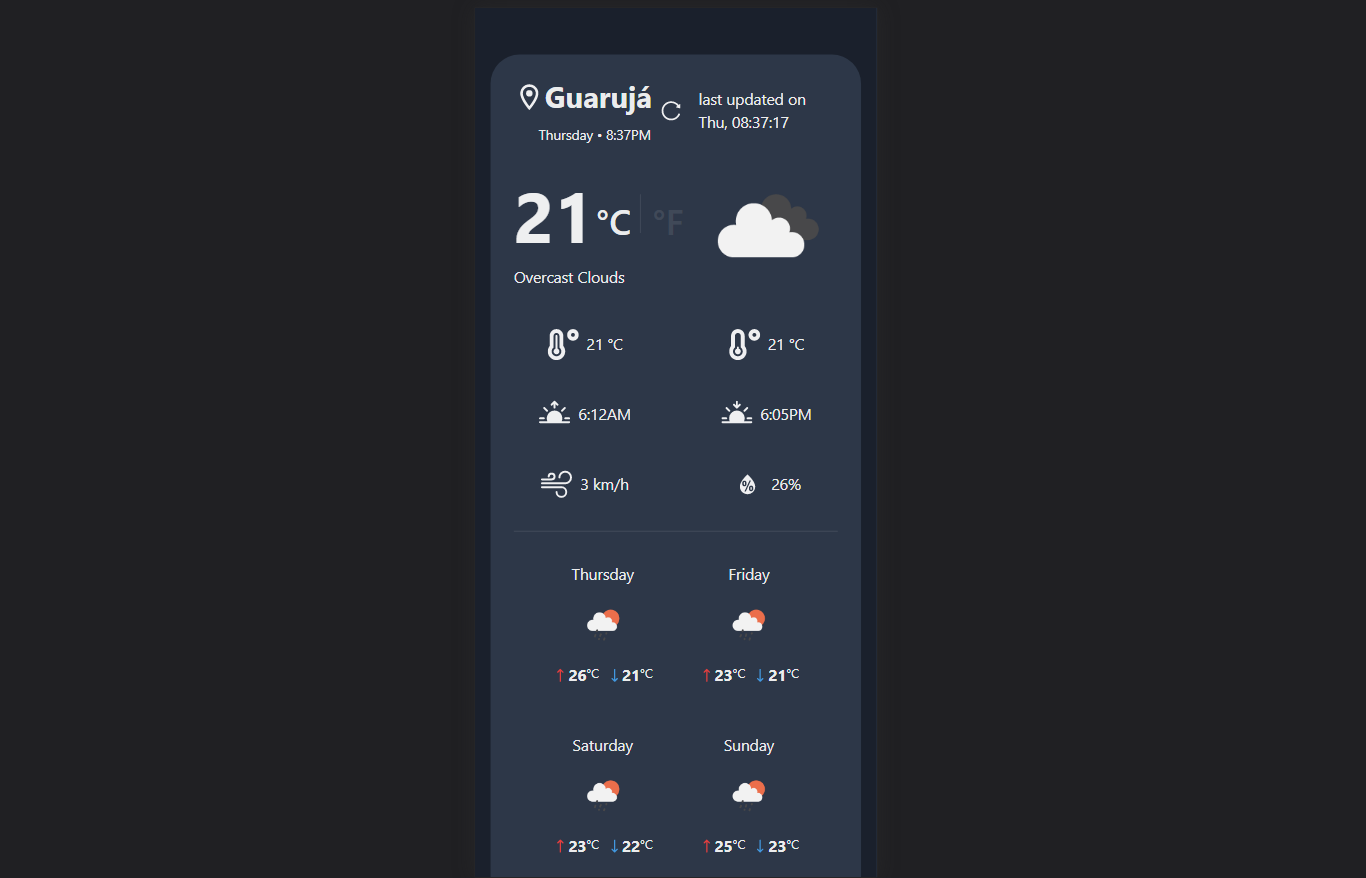
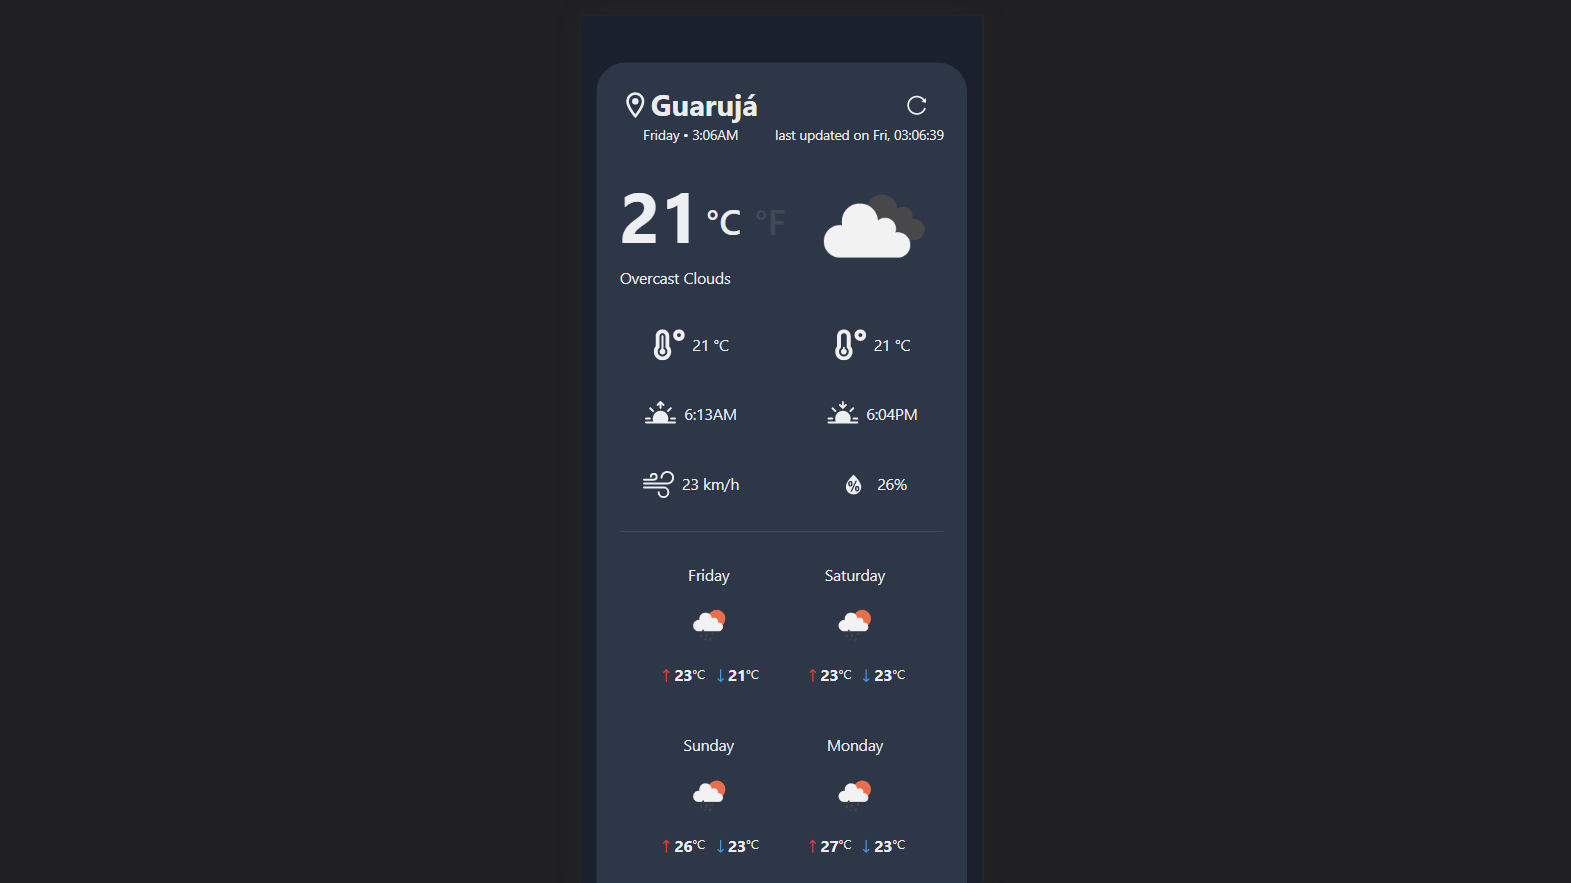
styled: responsive header

diff --git a/src/components/CurrentWeather.tsx b/src/components/CurrentWeather.tsx
@@ -1,8 +1,6 @@
 import {
   Flex,
-  Heading,
   HStack,
-  Icon,
   Image,
   Text,
   VStack,
@@ -10,12 +8,12 @@ import {
   Skeleton,
 } from "@chakra-ui/react";
 import { useCurrentWeather } from "../hooks";
-import { MdOutlineLocationOn } from "react-icons/md";
+
 import { BsWind } from "react-icons/bs";
 import { WiHumidity } from "react-icons/wi";
 
 import { formatDate, getImgUrl, getWindSpeed, msToDate } from "../utils";
-import { format } from "date-fns";
+
 import { IconAndLabel } from "./IconAndLabel";
 import { BsFillSunriseFill, BsFillSunsetFill } from "react-icons/bs";
 import { FaTemperatureHigh, FaTemperatureLow } from "react-icons/fa";
@@ -23,7 +21,8 @@ import { useAtom } from "jotai";
 import { locationAtom, Units, unitsAtom } from "../atoms";
 import { GenericError, Loading } from "./Feedback";
 import { CelsiusOrFahrenheit } from "./CelsiusOrFahrenheit";
-import { RefetchButton } from "./RefetchButton";
+
+import { Header } from "./Header";
 
 export function CurrentWeather() {
   const [location] = useAtom(locationAtom);
@@ -49,20 +48,7 @@ export function CurrentWeather() {
   return (
     <Skeleton w="full" isLoaded={data && !isLoading}>
       <VStack alignItems="start" w="full">
-        <HStack justifyContent="space-between" w="full">
-          <VStack>
-            <Flex align="center">
-              <Icon as={MdOutlineLocationOn} boxSize="8" />
-              <Heading>{data.name}</Heading>
-            </Flex>
-
-            <Text paddingLeft="6" fontSize="sm">
-              {format(new Date(), "eeee '•' h':'mma ")}{" "}
-            </Text>
-          </VStack>
-          <RefetchButton />
-        </HStack>
-
+        <Header city={data.name} />
         <HStack
           w="full"
           justifyContent={["space-between", "center"]}

diff --git a/src/components/Header.tsx b/src/components/Header.tsx
@@ -1,0 +1,26 @@
+import { Flex, Heading, HStack, Icon, Text } from "@chakra-ui/react";
+import { format } from "date-fns";
+import { RefetchButton } from "./RefetchButton";
+import { MdOutlineLocationOn } from "react-icons/md";
+
+type Props = {
+  city: string;
+};
+
+export function Header({ city }: Props) {
+  return (
+    <HStack justifyContent="space-between" w="full">
+      <Flex flexDir="column">
+        <Flex align="center">
+          <Icon as={MdOutlineLocationOn} boxSize="8" />
+          <Heading>{city}</Heading>
+        </Flex>
+
+        <Text paddingLeft="6" fontSize="sm">
+          {format(new Date(), "eeee '•' h':'mma ")}{" "}
+        </Text>
+      </Flex>
+      <RefetchButton />
+    </HStack>
+  );
+}

diff --git a/src/components/RefetchButton.tsx b/src/components/RefetchButton.tsx
@@ -43,7 +43,7 @@ export function RefetchButton() {
   }, [isFetching]);
 
   return (
-    <Flex flexDir="row" align="center">
+    <Flex flexDir={["column", "row"]} align={["end", "center"]}>
       <IconButton
         variant="unstyled"
         aria-label="refetch"
@@ -51,7 +51,9 @@ export function RefetchButton() {
         _focus={{ border: "none" }}
         icon={<AiOutlineReload size={24} />}
       />
-      <Text>last updated on {format(refetchDate, "eee, hh:mm:ss")} </Text>
+      <Text fontSize={["sm", "md"]}>
+        last updated on {format(refetchDate, "eee, hh:mm:ss")}{" "}
+      </Text>
     </Flex>
   );
 }
